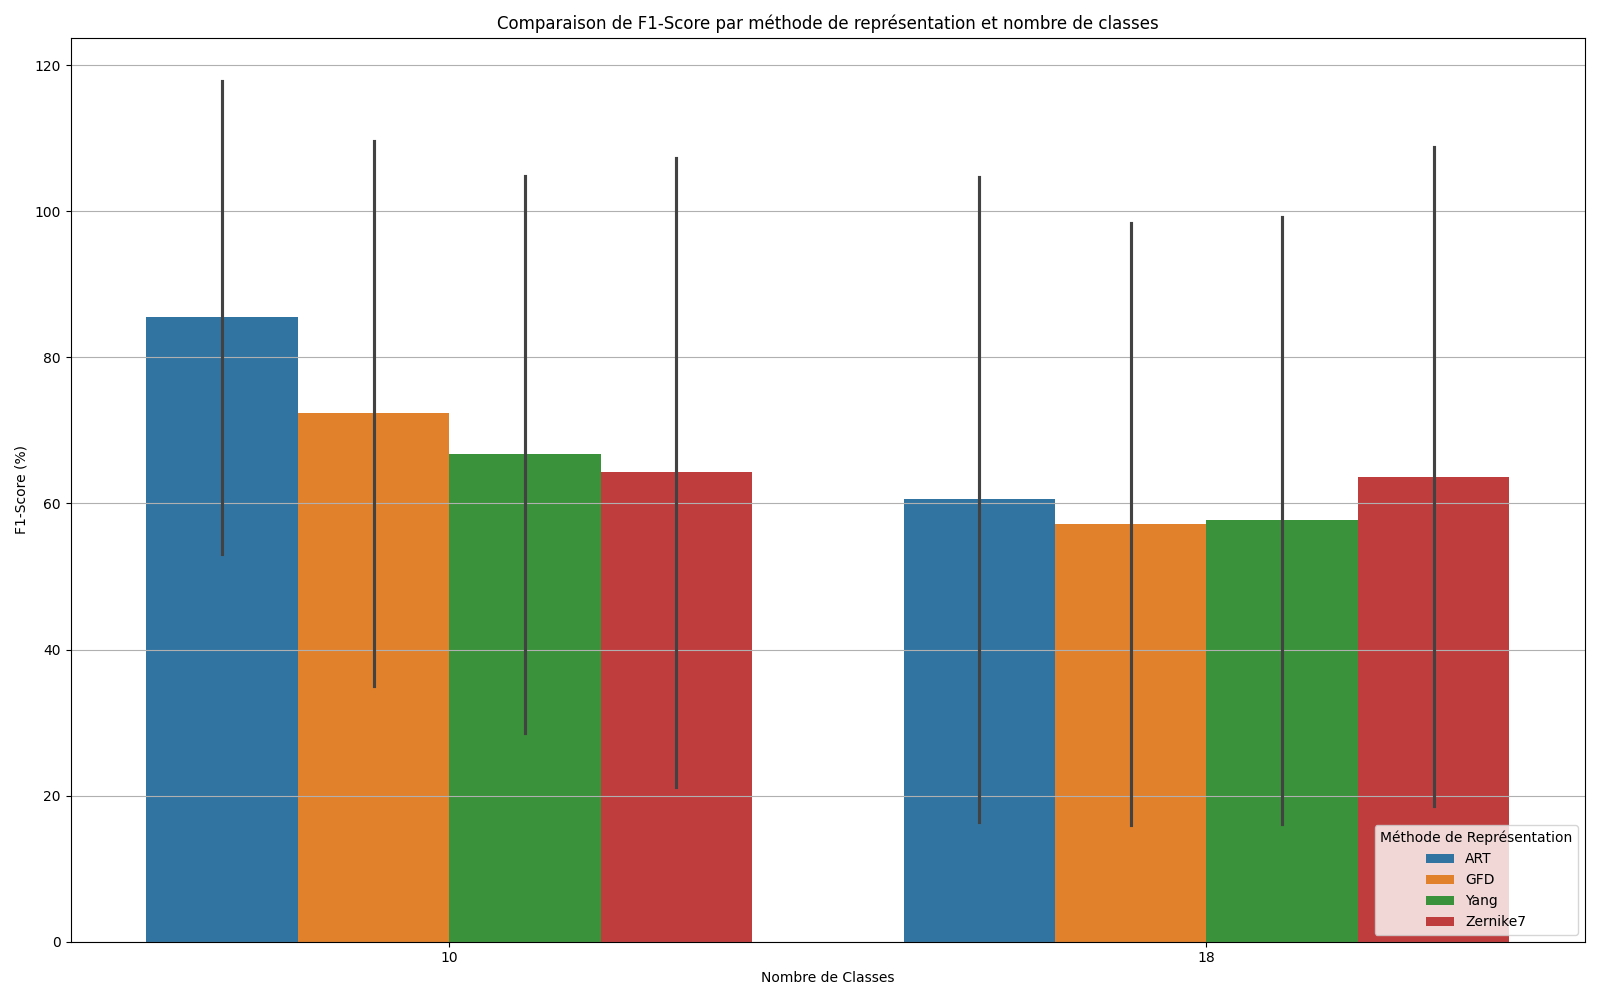
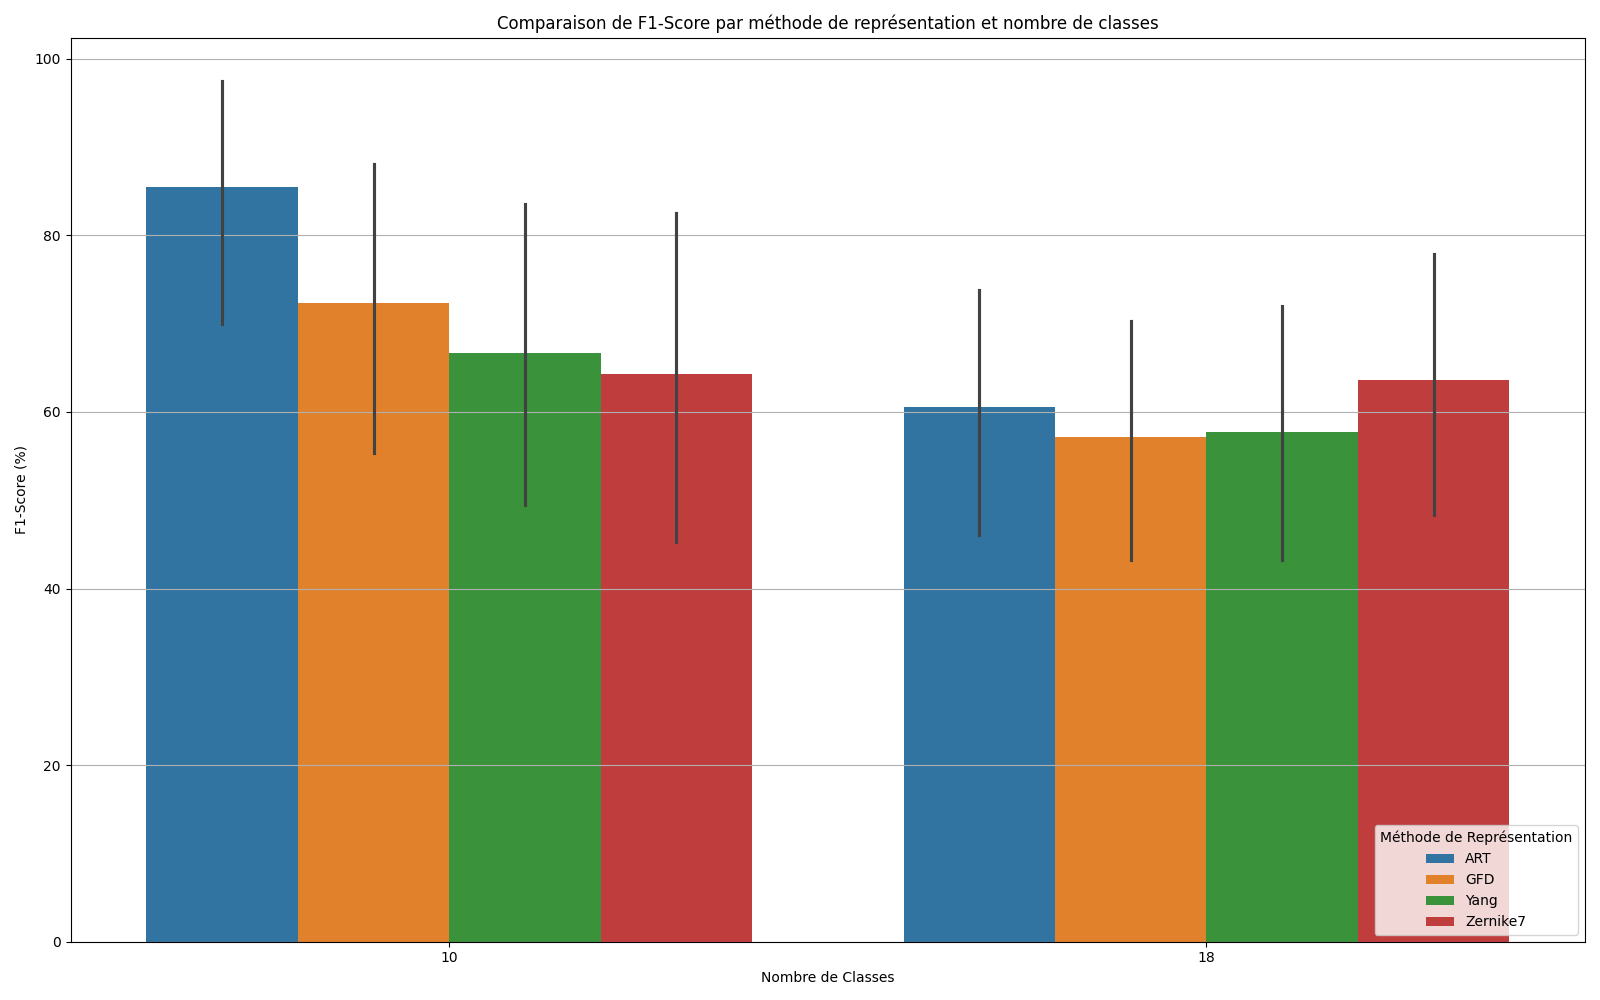
Correction des graphiques de visualisation

Changed region(s): [[0.0625, 0.186, 0.4688, 0.496], [0.5625, 0.372, 0.9688, 0.527]]

diff --git a/scripts/Visualisation_comparison.py b/scripts/Visualisation_comparison.py
@@ -60,15 +60,38 @@ metrics_combined_df["F1-Score"] = metrics_combined_df["F1-Score"].str.rstrip('%'
 # Liste des métriques à visualiser
 metrics_list = ["Precision", "Recall", "F1-Score"]
 
-# Générer un graphique par métrique
+# Générer des graphiques comparant les algorithmes
+for metric in metrics_list:
+    plt.figure(figsize=(14, 8))
+    sns.barplot(
+        data=metrics_combined_df,
+        x="ClassCount",
+        y=metric,
+        hue="Algorithm",  # Comparer les algorithmes
+        palette="muted"
+    )
+    plt.title(f"Comparaison de {metric} par algorithme et nombre de classes")
+    plt.xlabel("Nombre de Classes")
+    plt.ylabel(f"{metric} (%)")
+    plt.legend(title="Algorithme", loc="lower right")
+    plt.grid(axis="y")
+    plt.tight_layout()
+
+    # Sauvegarder le graphique
+    output_path = os.path.join(output_dir, f"comparison_{metric.lower()}_algorithm.png")
+    plt.savefig(output_path)
+    plt.close()
+
+    print(f"Graphique pour {metric} sauvegardé dans : {output_path}")
+
+# Générer des graphiques comparant les méthodes de représentation
 for metric in metrics_list:
     plt.figure(figsize=(16, 10))
     sns.barplot(
         data=metrics_combined_df,
         x="ClassCount",
         y=metric,
-        hue="Representation",
-        ci="sd",
+        hue="Representation",  # Comparer les méthodes de représentation
         palette="tab10"
     )
     plt.title(f"Comparaison de {metric} par méthode de représentation et nombre de classes")
